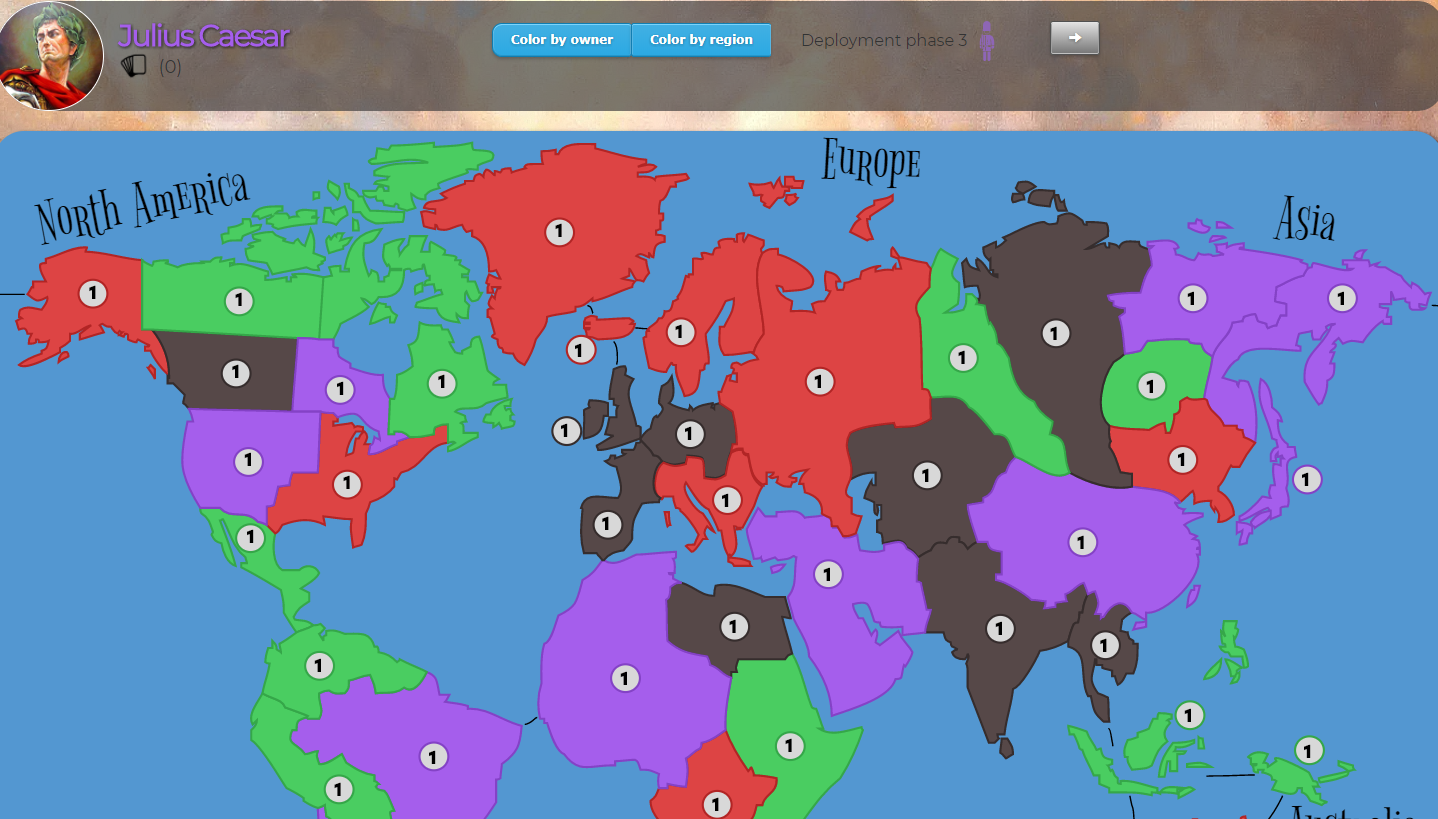
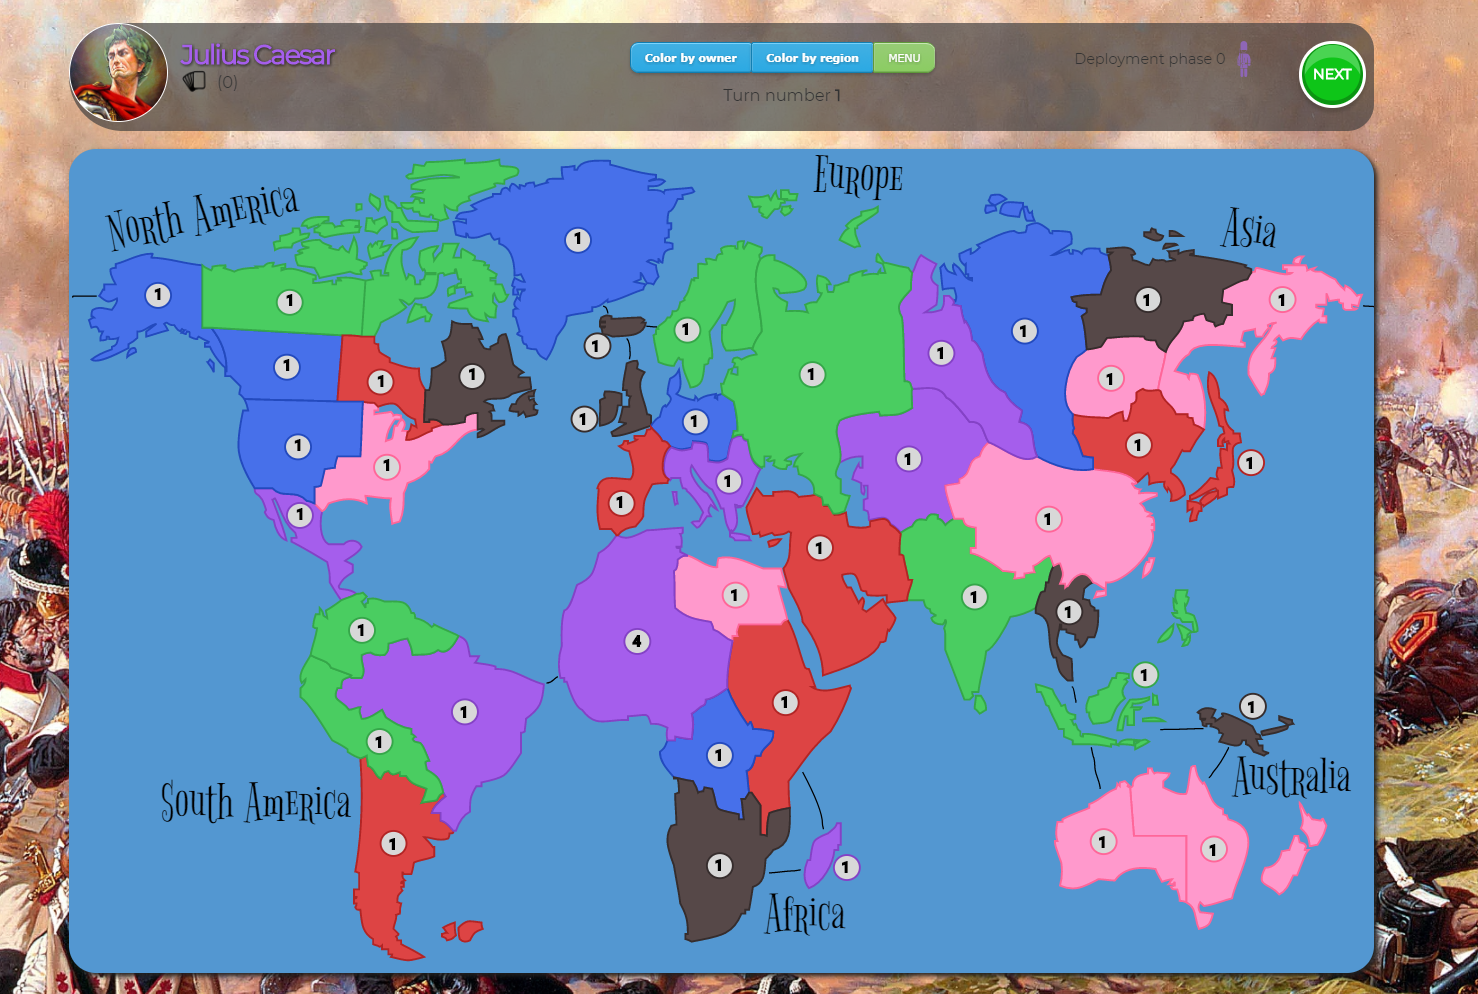
updated risk screenshots

diff --git a/views/projects.html b/views/projects.html
@@ -82,6 +82,7 @@
                             <li data-target="#myCarousel" data-slide-to="1"></li>
                             <li data-target="#myCarousel" data-slide-to="2"></li>
                             <li data-target="#myCarousel" data-slide-to="3"></li>
+                            <li data-target="#myCarousel" data-slide-to="4"></li>
                         </ol>
                         <!-- Wrapper for slides -->
                         <div class="carousel-inner">
@@ -99,6 +100,10 @@
                             </div>
                             <div class="item">
                                 <div class="itemImage" style="background-image: url(../../build/assets/risk_screenshots/4.png); background-position: center top;">
+                                </div>
+                            </div>
+                            <div class="item">
+                                <div class="itemImage" style="background-image: url(../../build/assets/risk_screenshots/5.png); background-position: center top;">
                                 </div>
                             </div>
                         </div>
